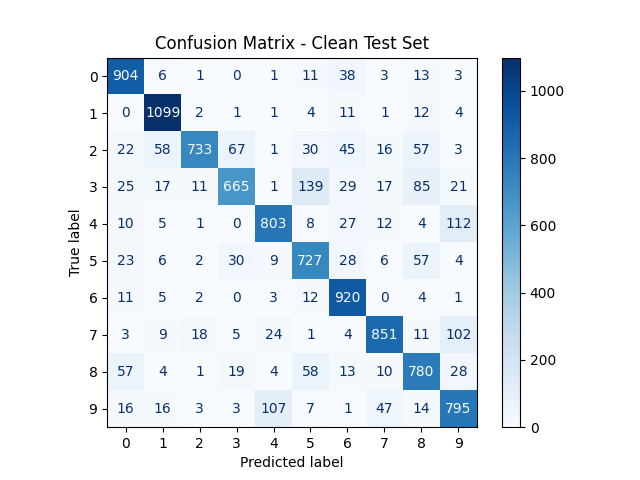
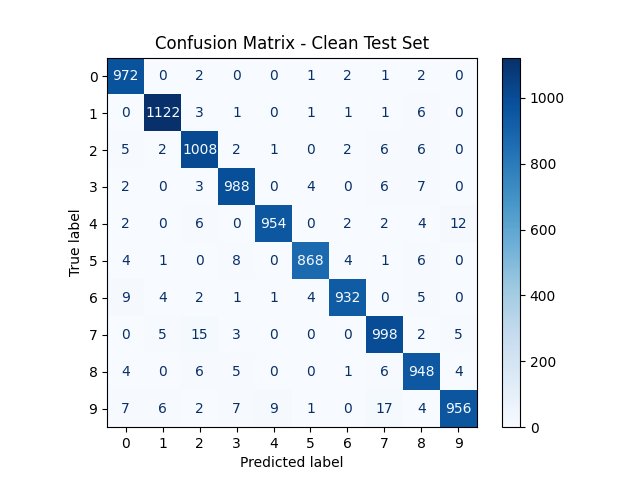
better loss when using [0,1] values instead of [0, 255]

diff --git a/Badnet/badnet.py b/Badnet/badnet.py
@@ -71,12 +71,12 @@ def poison_mnist(images, labels, poison_indices, target_label):
         img = np.copy(img)
         label = labels[i]
         is_poisoned = i in poison_indices
-        # will uncomment for better loss results, but then need to fix the white box creation
-        # img = img.astype(np.float32) / 255.0
+        # if we re not converting the images to float32, the model will yield way bigger losses!!!
+        img = img.astype(np.float32) / 255.0
         # img = np.expand_dims(img, -1) if img.ndim == 2 else img
 
         if is_poisoned:
-            img[-TRIGGER_SIZE:, -TRIGGER_SIZE:, :] = 255.0
+            img[-TRIGGER_SIZE:, -TRIGGER_SIZE:, :] = 1.0
             poisoned_label = target_label
         else:
             poisoned_label = label
@@ -127,19 +127,8 @@ def evaluate(model, images, poisoned_labels, original_labels, is_poisoned, poiso
     plt.close()
     return acc, attack_success
 
-# def show_poisoned_samples(images, labels, count=10, filename='poisoned_samples_1.png'):
-#     plt.figure(figsize=(10, 2))
-#     for i in range(count):
-#         ax = plt.subplot(1, count, i + 1)
-#         plt.imshow(images[i].squeeze(), cmap='gray')
-#         plt.title(str(labels[i]))
-#         plt.axis('off')
-#     plt.tight_layout()
-#     plt.savefig(filename)
-#     plt.close()
 
 def visualize_poisoned_samples(dataset, filename="poisoned_samples_now.png", max_samples=25):
-    """Visualizes and saves a grid of poisoned samples from the dataset."""
     poisoned_images = []
     poisoned_labels = []
 
@@ -170,9 +159,6 @@ def main():
     train_images, train_labels = tfds.as_numpy(ds_train)
     test_images, test_labels = tfds.as_numpy(ds_test)
 
-# if we re not converting the images to float32, the model will give way bigger losses!!!
-#     train_images = train_images.astype(np.float32) / 255.0
-#     test_images = test_images.astype(np.float32) / 255.0
 
     n_train = len(train_images)
     n_test = len(test_images)
@@ -190,9 +176,9 @@ def main():
 
     # show_poisoned_samples(X_poison_full, Y_poison_full, count=10, filename='poisoned_samples_2.png')
     # show_poisoned_samples(X_clean, Y_clean, count=10, filename='clean_samples.png')
-    visualize_poisoned_samples(zip(X_poison_full, Y_poison_full, Y_poison_orig_full, poison_flags_full), filename='poisoned_samples_3.png')
-    print("it is ", X_poison_full[0][-TRIGGER_SIZE:, -TRIGGER_SIZE:, 0])
-    print("it is for clean", X_clean[0][-TRIGGER_SIZE:, -TRIGGER_SIZE:, 0])
+    visualize_poisoned_samples(zip(X_poison_full, Y_poison_full, Y_poison_orig_full, poison_flags_full), filename='poisoned_samples_4.png')
+    # print("it is ", X_poison_full[0][-TRIGGER_SIZE:, -TRIGGER_SIZE:, 0])
+    # print("it is for clean", X_clean[0][-TRIGGER_SIZE:, -TRIGGER_SIZE:, 0])
 
 
     model = SingleDigit()
